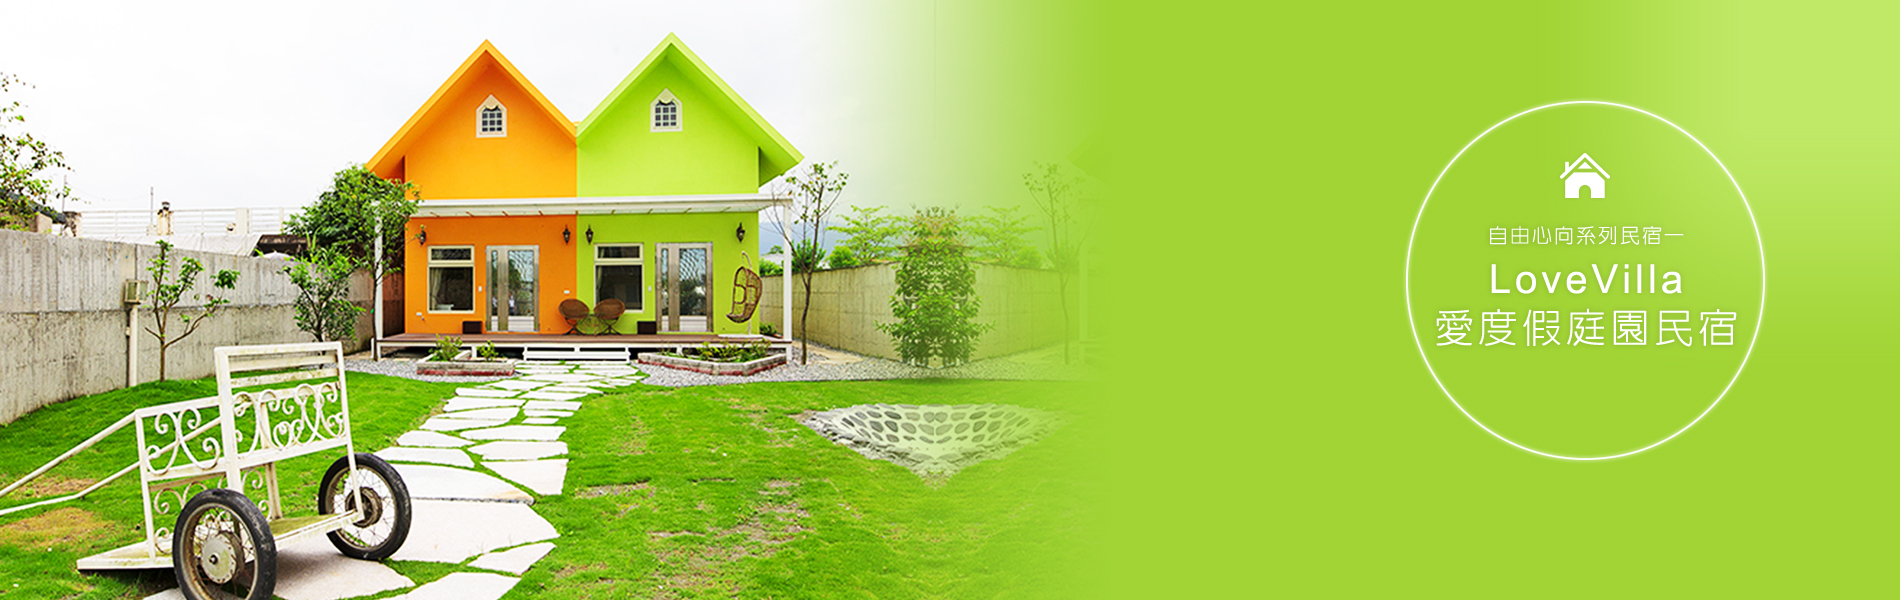
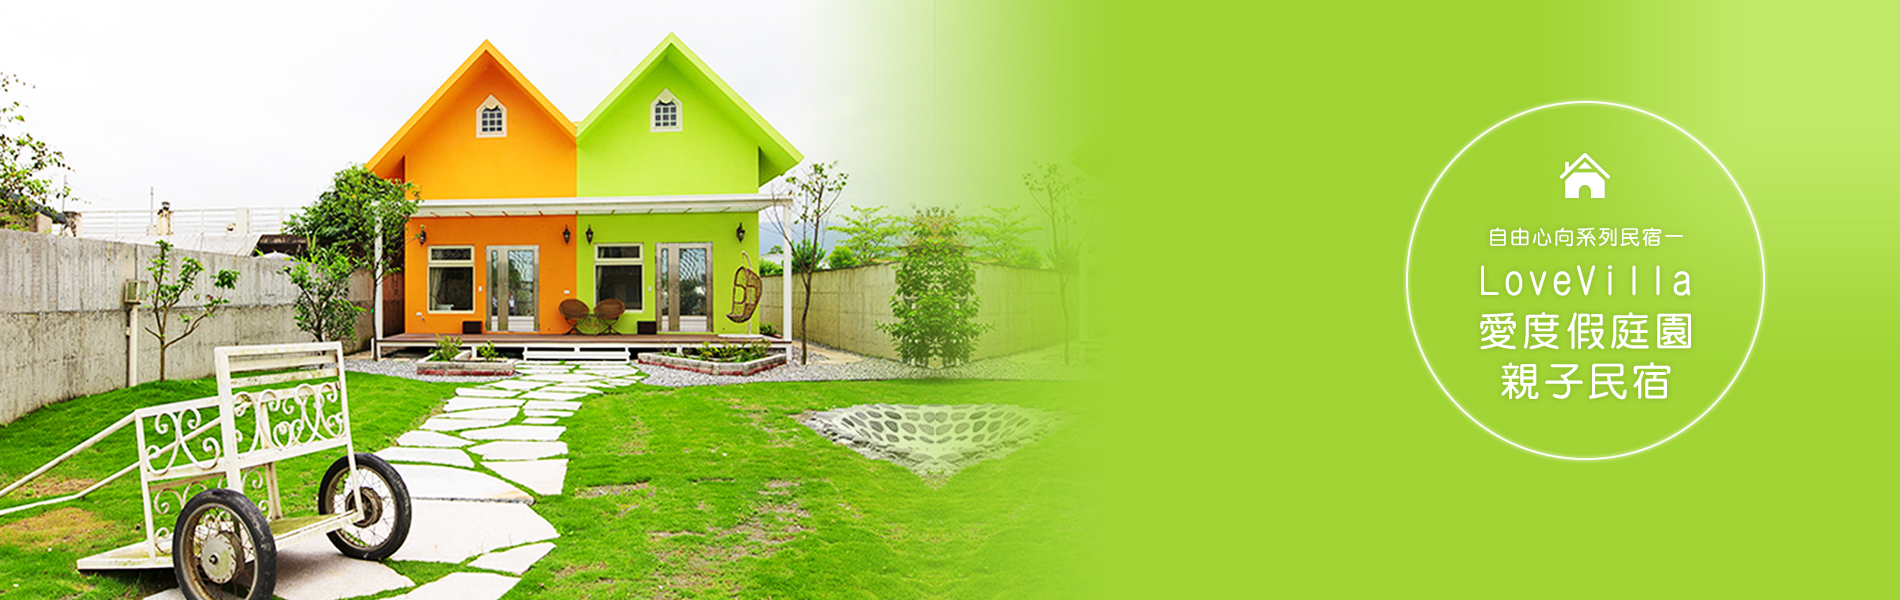
修改

Changed region(s): [[0.7453, 0.36, 0.9316, 0.66]]

diff --git a/web_lovevilla/reservation.html b/web_lovevilla/reservation.html
@@ -122,12 +122,12 @@
                                 <div class="story">
                                 	<h3 class="sub_title">民宿貼心服務</h3>
                                 	<ul class="reservation_list clearfix">
-                                    	<li><p>宜蘭縣政府合法民宿編號：0480。</p></li>
-                                    	<li><p>鄰近羅東夜市、冬山河親水公園童玩節(車程十分鐘)。</p></li>
+                                    	<li><p>宜蘭縣政府合法民宿編號：480。</p></li>
+                                    	<li><p>鄰近羅東夜市、冬山河親水公園童玩節。</p></li>
                                         <li><p>提供特製西式蔬食早餐，供應時間08:00 ~ 09:00。	</p></li>
                                         <li><p>公共設施：接待區、客廳含WIFI、餐廳、冰箱、飲水機、園區內庭園空間。</p></li>
-                                        <li><p>提供加購烤肉區，請來電洽詢（開放時間：15:00~22:00）</p></li>
-                                        <li><p>提供卡拉OK（開放時間：15:00~20:00）</p></li>
+                                        <li><p>提供加購烤肉區，請來電洽詢（開放時間：15:00~23:00）</p></li>
+                                        <li><p>提供卡拉OK（開放時間：15:00~23:00）</p></li>
                                         <li><p>代辦汽機車租賃服務。</p></li>
                                         <li><p>代辦龜山島賞鯨旅遊行程。</p></li>
                                         <li><p>代售童玩節門票。</p></li>
@@ -142,6 +142,13 @@
                                         <li><p>訂房確認後，請於隔天晚上20：00前內預付房價五成之訂金，逾期恕不保留客房。</p></li>
                                         <li><p>預訂春節客房，請預付房價全額款項，新年期間取消訂房者，恕不退還訂金。</p></li>
                                     </ul>
+                                    
+                                    <h3 class="sub_title">改期或取消：</h3>
+                                    <ul class="reservation_list">
+                                        <li><p>住宿當日逢颱風或地震等不可抗拒之因素 ( 以當地縣市政府頒布狀況為準則 ) 時，無條件退回全額訂金或保留訂金三個月。</p></li>
+                                        <li><p>當日或春節期間取消訂房者，恕不退還訂金。</br>於住宿前1日前取消訂房，退訂金金額 20%。</br>於住宿前2~3日內取消訂房，退訂金金額 30%。</br>於住宿前4~6日內取消訂房，退訂金金額 40%。</br>於住宿前7~9日內取消訂房，退訂金金額50%。</br>於住宿前10~13日內取消訂房，退訂金金額 70%。</p></li>
+                                    </ul>
+                                    
                                     <h3 class="sub_title">住宿公約</h3>
                                     <ul class="reservation_list">
                                     	<li><p>公共空間主人有權利隨時進出，訂房時請考量。</p></li>

diff --git a/web_beauty/reservation.html b/web_beauty/reservation.html
@@ -122,12 +122,12 @@
                                 <div class="story">
                                 	<h3 class="sub_title">民宿貼心服務</h3>
                                 	<ul class="reservation_list clearfix">
-                                    	<li><p>宜蘭縣政府合法民宿編號：0428號。</p></li>
-                                    	<li><p>鄰近傳藝中心、冬山河親水公園童玩節(車程5分鐘)、羅東夜市(車程10分鐘)。</p></li>
+                                    	<li><p>宜蘭縣政府合法民宿編號：480號。</p></li>
+                                    	<li><p>鄰近傳藝中心、冬山河親水公園童玩節、羅東夜市。</p></li>
                                         <li><p>提供特製西式蔬食早餐，供應時間08:00 ~ 09:00。</p></li>
                                         <li><p>公共設施：接待區、客廳含WIFI、餐廳、冰箱、飲水機、園區內庭園空間。</p></li>
-                                        <li><p>提供加購烤肉區，請來電洽詢（開放時間：15:00~22:00）</p></li>
-                                        <li><p>提供卡拉OK（開放時間：15:00~20:00）</p></li>
+                                        <li><p>提供加購烤肉區，請來電洽詢（開放時間：15:00~23:00）</p></li>
+                                        <li><p>提供卡拉OK（開放時間：15:00~23:00）</p></li>
                                         <li><p>代辦汽機車租賃服務。</p></li>
                                         <li><p>代辦龜山島賞鯨旅遊行程。</p></li>
                                         <li><p>代售童玩節門票。</p></li>
@@ -148,7 +148,6 @@
                                     <h3 class="sub_title">改期或取消：</h3>
                                     <ul class="reservation_list">
                                         <li><p>住宿當日逢颱風或地震等不可抗拒之因素 ( 以當地縣市政府頒布狀況為準則 ) 時，無條件退回全額訂金或保留訂金三個月。</p></li>
-                                        <li><p>訂房後若要延期，請14天前來電告知，保留訂金三個月，以維護其他房客權益。</p></li>
                                         <li><p>當日或春節期間取消訂房者，恕不退還訂金。</br>於住宿前1日前取消訂房，退訂金金額 20%。</br>於住宿前2~3日內取消訂房，退訂金金額 30%。</br>於住宿前4~6日內取消訂房，退訂金金額 40%。</br>於住宿前7~9日內取消訂房，退訂金金額50%。</br>於住宿前10~13日內取消訂房，退訂金金額 70%。</p></li>
                                     </ul>
                                     

diff --git a/web_lovevilla/landing_page.html b/web_lovevilla/landing_page.html
@@ -24,7 +24,7 @@
                     自由心向<br />
                     在地人推廣鄉土情<br />
                     推薦宜蘭優質旅遊民宿<br />
-                    推薦宜蘭在地吃喝玩樂</p>
+                    介紹宜蘭在地吃喝玩樂</p>
                 </div>
                 <!--kv 結束-->
             </div>
@@ -48,7 +48,7 @@
                             	<header>
                             	<!--title-->
                                 <div class="title">
-                                    <h2 class="beauty">美麗連夢露莊園民宿</h2>
+                                    <h2 class="beauty">美麗蓮夢露莊園親子民宿</h2>
                                 </div>
                                 <!--title-->
                                 </header>
@@ -57,7 +57,8 @@
                                 <div class="item_1">
                                     <a href="#">
                                         <p class="pic"><img src="images/pic_beauty.jpg"></p>
-                                        <p class="summary">位於五結交流道旁的獨棟別墅，<br />佔地約500坪庭園鄰近羅東市區、傳統藝術中心、冬山河。</p>
+                                        <p class="summary">位於五結交流道旁的豪華莊園別墅<br />
+佔地約上千坪庭園鄰近羅東夜市、梅花 湖、傳藝中心、冬山河</p>
                                     </a>
                                 </div>
                                 <!--組-->
@@ -68,7 +69,7 @@
                             	<header>
                             	<!--title-->
                                 <div class="title">
-                                    <h2 class="love">lovevilla愛度假庭園民宿</h2>
+                                    <h2 class="love">lovevilla愛度假庭園親子民宿</h2>
                                 </div>
                                 <!--title-->
                                 </header>
@@ -77,8 +78,8 @@
                                 <div class="item_1">
                                     <a href="index.html">
                                         <p class="pic"><img src="images/pic_love.jpg"></p>
-                                        <p class="summary">鄰近羅東市區、冬山河親水公園及傳藝中心，<br />
-是您宜蘭休閒的最好選擇！</p>
+                                        <p class="summary">鄰近羅東夜市、冬山河親水公園及傳藝中心<br />
+是你全家親子包棟烤肉渡假的最好選擇</p>
                                     </a>
                                 </div>
                                 <!--組-->

diff --git a/web_lovevilla/about_us.html b/web_lovevilla/about_us.html
@@ -121,10 +121,10 @@
                                 <!--關於本館內文-->
                                 <div class="story">
                                 	<p><img src="images/pic_about.jpg"></p>
-                                    <p>自由心向系列民宿二【LoveVilla 愛度假庭園民宿】</p>
+                                    <p>【自由心向系列民宿 二】LoveVilla 愛度假庭園親子民宿 愛度假庭園親子民宿</p>
 
-                                    <p>鄰近羅東市區、冬山河親水公園及傳藝中心，<br />
-                                    是您宜蘭休閒的最好選擇！</p>
+                                    <p>鄰近羅東夜市、冬山河親水公園及傳藝中心，<br />
+                                    是你全家親子包棟烤肉渡假的最好選擇</p>
                                     
                                     <p>親子度假包棟烤肉首選<br />
                                     走進自由心向Love Villa，您會發現更多的驚喜。。。</p>
